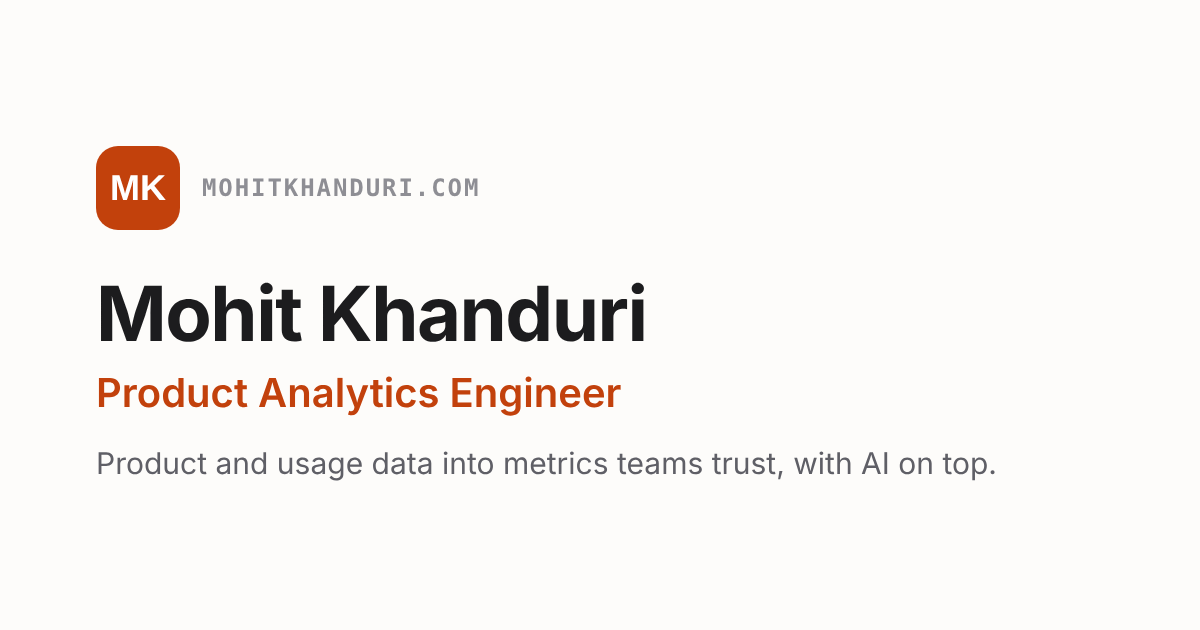
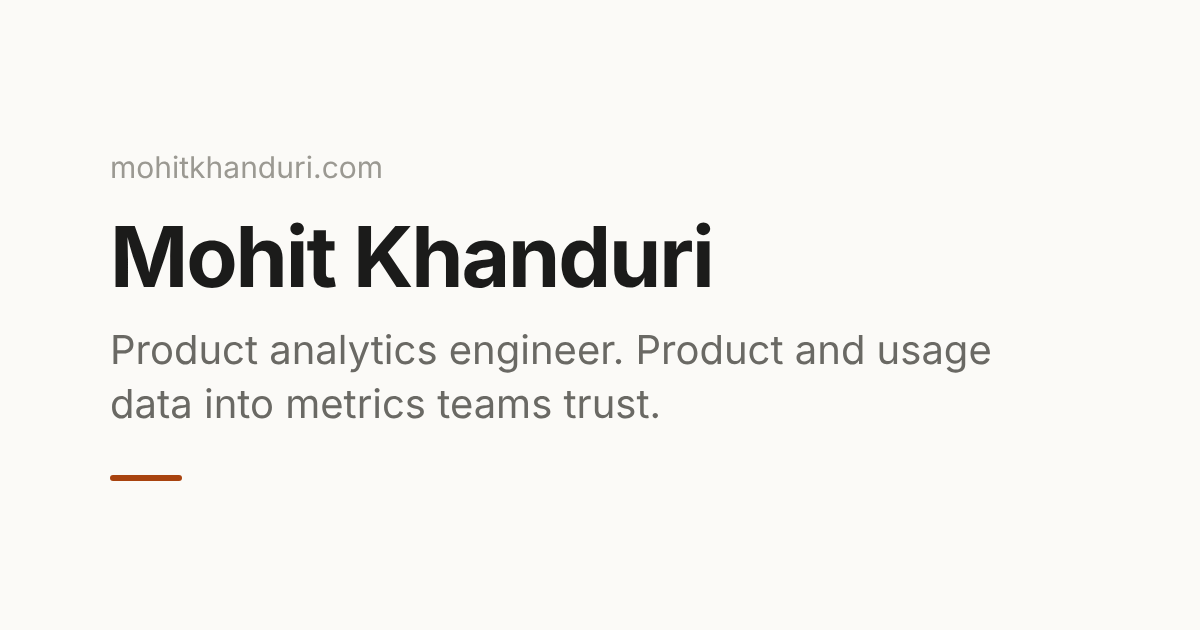
Redesign in a text-first, warm minimal style
Follow Lee Robinson's structure: a personal intro with links in the text,
then plain lists for work, how I work, side projects and Now. Drops the
card grids, buttons, badge and the separate About and Contact sections
(folded into the intro). Quieter warm palette, plain-name header,
lowercase nav, subtle hover arrows. Link-preview image and favicon
updated to match.

Claude-Session: https://claude.ai/code/session_01S2RkmCWnAzvbtV5CNQiwZp

Changed region(s): [[0.0617, 0.2111, 0.8325, 0.6635], [0.0617, 0.7238, 0.8325, 0.7841]]

diff --git a/src/styles/global.css b/src/styles/global.css
@@ -1,95 +1,88 @@
 :root {
-  --bg: #fdfcfa; --surface: #ffffff; --text: #1c1c1e; --muted: #5f5f66; --faint: #8e8e94;
-  --line: #ebe8e3; --accent: #c2410c; --accent-soft: #fff0e6; --row-hover: #f6f3ee;
-  --font: ui-sans-serif, system-ui, -apple-system, "Segoe UI", Roboto, sans-serif;
+  --bg: #fbfaf7; --text: #1b1b1a; --muted: #6a6964; --faint: #9b9992;
+  --line: #e7e4dd; --accent: #a8430f; --hover: #f3f0ea;
+  --font: ui-sans-serif, system-ui, -apple-system, "Segoe UI", Roboto, "Helvetica Neue", sans-serif;
   --mono: ui-monospace, SFMono-Regular, Menlo, Consolas, monospace;
-  --maxw: 720px;
+  --maxw: 640px;
 }
 @media (prefers-color-scheme: dark) {
   :root {
-    --bg: #111113; --surface: #18181b; --text: #ececee; --muted: #a3a3a8; --faint: #7c7c82;
-    --line: #26262a; --accent: #ff8a4c; --accent-soft: #2a1a10; --row-hover: #1c1c20;
+    --bg: #121211; --text: #ecebe7; --muted: #a09e97; --faint: #74726c;
+    --line: #2a2926; --accent: #f0a074; --hover: #1b1a18;
   }
 }
 * { box-sizing: border-box; }
 html { -webkit-text-size-adjust: 100%; }
-body { margin: 0; background: var(--bg); color: var(--text); font: 16px/1.65 var(--font); }
+body { margin: 0; background: var(--bg); color: var(--text); font: 16px/1.7 var(--font);
+       -webkit-font-smoothing: antialiased; text-rendering: optimizeLegibility; }
 a { color: inherit; text-decoration: underline; text-decoration-color: var(--line);
-    text-decoration-thickness: 2px; text-underline-offset: 3px; transition: text-decoration-color .15s; }
+    text-decoration-thickness: 1.5px; text-underline-offset: 3px; transition: text-decoration-color .15s, color .15s; }
 a:hover { text-decoration-color: var(--accent); }
+::selection { background: var(--accent); color: var(--bg); }
 img, svg { max-width: 100%; }
 
 .wrap { max-width: var(--maxw); margin: 0 auto; padding: 0 16px; }
 
 /* Header and footer */
-.site-header { border-bottom: 1px solid var(--line); }
-.site-header .wrap { display: flex; align-items: center; justify-content: space-between; gap: 12px; padding-top: 14px; padding-bottom: 14px; flex-wrap: wrap; }
-.brand { font-weight: 650; text-decoration: none; display: flex; align-items: center; gap: 10px; }
-.brand .mark { width: 28px; height: 28px; border-radius: 8px; background: var(--accent); color: #fff; display: grid; place-items: center; font: 700 12px/1 var(--font); }
-nav { display: flex; gap: 4px 16px; flex-wrap: wrap; font-size: 15px; }
+.site-header .wrap { display: flex; align-items: baseline; justify-content: space-between; gap: 12px;
+                     padding-top: 40px; padding-bottom: 8px; flex-wrap: wrap; }
+.brand { font-weight: 600; text-decoration: none; letter-spacing: -.01em; }
+nav { display: flex; gap: 4px 18px; flex-wrap: wrap; font-size: 15px; }
 nav a { text-decoration: none; color: var(--muted); }
 nav a:hover, nav a[aria-current="page"] { color: var(--text); }
-.site-footer { margin-top: 72px; border-top: 1px solid var(--line); color: var(--faint); font-size: 14px; }
-.site-footer .wrap { padding-top: 20px; padding-bottom: 40px; display: flex; justify-content: space-between; gap: 12px; flex-wrap: wrap; }
+.site-footer { margin-top: 96px; color: var(--faint); font-size: 14px; }
+.site-footer .wrap { padding-top: 20px; padding-bottom: 48px; border-top: 1px solid var(--line);
+                     display: flex; justify-content: space-between; gap: 12px; flex-wrap: wrap; }
+.site-footer a { color: var(--muted); }
 
 /* Type */
-h1 { font-size: clamp(30px, 5.5vw, 42px); line-height: 1.15; letter-spacing: -.02em; margin: 0 0 16px; }
-h2 { font-size: 22px; line-height: 1.3; letter-spacing: -.01em; margin: 0 0 6px; }
-h3 { font-size: 17px; line-height: 1.35; margin: 0 0 4px; }
-p { margin: 0 0 14px; }
-.eyebrow { font: 600 12px/1 var(--mono); letter-spacing: .1em; text-transform: uppercase; color: var(--faint); margin: 0 0 12px; }
+h1 { font-size: 28px; line-height: 1.25; letter-spacing: -.02em; font-weight: 650; margin: 0 0 18px; }
+h2 { font-size: 15px; line-height: 1.4; font-weight: 600; margin: 0 0 14px; }
+h3 { font-size: 16px; line-height: 1.45; font-weight: 600; margin: 0; }
+p { margin: 0 0 16px; }
+.eyebrow { font-size: 14px; color: var(--faint); margin: 0 0 8px; }
 .muted { color: var(--muted); }
-.lede { font-size: 18px; color: var(--muted); }
+.lede { color: var(--muted); }
 
-section { padding-top: 56px; }
-.section-head { display: flex; align-items: baseline; justify-content: space-between; gap: 12px; margin-bottom: 18px; flex-wrap: wrap; }
-.section-head a { font-size: 15px; color: var(--muted); }
+main > section, article > section { padding-top: 56px; }
+main > section:first-child { padding-top: 64px; }
 
-/* Buttons */
-.buttons { display: flex; flex-wrap: wrap; gap: 10px; margin-top: 24px; }
-.btn { display: inline-block; padding: 9px 16px; border-radius: 999px; border: 1px solid var(--line); background: var(--surface); text-decoration: none; font-size: 15px; font-weight: 550; }
-.btn:hover { border-color: var(--accent); color: var(--accent); }
-.btn.primary { background: var(--accent); border-color: var(--accent); color: #fff; }
-.btn.primary:hover { color: #fff; filter: brightness(1.08); }
+/* Lists of links: title and one line, subtle hover */
+.list { list-style: none; padding: 0; margin: 0 -12px; }
+.list a { display: block; padding: 10px 12px; border-radius: 8px; text-decoration: none; transition: background .15s; }
+.list a:hover { background: var(--hover); }
+.list .t { font-weight: 550; display: flex; align-items: baseline; gap: 8px; }
+.list .t::after { content: "→"; color: var(--faint); font-weight: 400; opacity: 0; transform: translateX(-4px);
+                  transition: opacity .15s, transform .15s; }
+.list a:hover .t::after { opacity: 1; transform: none; }
+.list .d { color: var(--muted); font-size: 15px; }
+.list .m { color: var(--faint); font-size: 13px; }
 
-/* Cards */
-.grid { display: grid; gap: 14px; grid-template-columns: repeat(auto-fit, minmax(210px, 1fr)); }
-.card { background: var(--surface); border: 1px solid var(--line); border-radius: 12px; padding: 18px 20px; }
-.card p { color: var(--muted); font-size: 15px; margin: 0; }
-a.card { display: block; text-decoration: none; transition: border-color .15s; }
-a.card:hover { border-color: var(--accent); }
-a.card:hover h3 { color: var(--accent); }
-.card .num { font: 600 12px/1 var(--mono); color: var(--accent); margin-bottom: 10px; }
-
-.tag { display: inline-block; font: 600 11px/1 var(--mono); letter-spacing: .04em; text-transform: uppercase; color: var(--accent); background: var(--accent-soft); padding: 5px 7px; border-radius: 5px; margin-bottom: 10px; }
-.chips { display: flex; flex-wrap: wrap; gap: 6px; padding: 0; margin: 12px 0 0; list-style: none; }
-.chips li { font: 12px/1 var(--mono); border: 1px solid var(--line); padding: 5px 7px; border-radius: 6px; color: var(--muted); }
-
-/* Lists of rows */
+/* Plain rows (CV, principles, Now) */
 .rows { list-style: none; padding: 0; margin: 0; }
 .rows li { padding: 14px 0; border-top: 1px solid var(--line); }
 .rows li:first-child { border-top: 0; padding-top: 0; }
 .rows .meta { font: 12px/1.6 var(--mono); color: var(--faint); }
+.bullets { padding-left: 18px; margin: 0; }
+.bullets li { margin: 4px 0; color: var(--muted); }
 
-.callout { border: 1px dashed var(--accent); background: var(--accent-soft); border-radius: 12px; padding: 18px 20px; }
-.callout p { margin: 0; }
+.chips { display: flex; flex-wrap: wrap; gap: 6px; padding: 0; margin: 12px 0 0; list-style: none; }
+.chips li { font: 12px/1 var(--mono); border: 1px solid var(--line); padding: 5px 7px; border-radius: 6px; color: var(--muted); }
 
-.avatar { width: 72px; height: 72px; border-radius: 18px; background: var(--accent); color: #fff; display: grid; place-items: center; font: 700 26px/1 var(--font); flex: none; }
-.about { display: flex; gap: 20px; align-items: flex-start; }
-
-dl.pairs { display: grid; grid-template-columns: 190px 1fr; gap: 10px 16px; margin: 0; }
+dl.pairs { display: grid; grid-template-columns: 180px 1fr; gap: 10px 16px; margin: 0; }
 dl.pairs dt { color: var(--faint); }
 dl.pairs dd { margin: 0; }
 
 /* Long-form pages */
-.prose h2 { margin-top: 40px; }
+.prose h1 { font-size: 30px; }
+.prose h2 { font-size: 20px; letter-spacing: -.01em; margin: 44px 0 8px; }
 .prose ul { padding-left: 20px; }
 .prose li { margin: 6px 0; }
 .prose ul.chips, .prose ul.rows { padding-left: 0; }
 .prose ul.chips li { margin: 0; }
 
 @media (max-width: 560px) {
-  .about { flex-direction: column; }
+  .site-header .wrap { padding-top: 28px; }
   dl.pairs { grid-template-columns: 1fr; gap: 2px; }
   dl.pairs dd { margin-bottom: 12px; }
 }

diff --git a/src/data/site.ts b/src/data/site.ts
@@ -15,21 +15,6 @@ export const site = {
   github: 'https://github.com/mandakani',
 };
 
-export const whatIDo = [
-  {
-    title: 'Model product data',
-    body: 'I turn app events, users and accounts into clean dbt models, so teams can see activation, retention and feature usage without writing SQL.',
-  },
-  {
-    title: 'Make metrics trustworthy',
-    body: 'One agreed definition per metric, tests on every model, data quality rules and access control, so every team sees the same numbers.',
-  },
-  {
-    title: 'Exploring: AI on top of data',
-    body: 'LLM agents that go through the same access checks as any other user of the data, with every run traced. See the lab below.',
-  },
-];
-
 // Each principle points at work where it was applied, so none of it is theory.
 export const principles = [
   {
@@ -100,14 +85,12 @@ export const caseStudies = [
 export const lab = [
   {
     title: 'AI research advisor',
-    tag: 'AI lab',
     body: 'A LangGraph agent that asks clarifying questions, researches the web and recommends with sources. Every run is traced in Opik.',
     href: 'https://github.com/mandakani/ai-projects-sdd',
     stack: ['LangGraph', 'FastAPI', 'React', 'Opik'],
   },
   {
     title: 'Governed data agent',
-    tag: 'AI lab',
     body: 'An LLM agent over a medallion pipeline that goes through the same consent checks, data masking and filtered retrieval as any other caller.',
     href: 'https://github.com/mandakani/healthcare-data-agent-poc',
     stack: ['DuckDB', 'Python', 'litellm'],
@@ -118,9 +101,6 @@ export const now = [
   'Learning PostHog event tracking, funnel and retention metrics, and A/B test analysis',
   'Exploring text-to-SQL over a metrics layer, and how to evaluate it',
 ];
-
-export const about =
-  "I started in enterprise IT as a business analyst, moved into software and have spent the last seven years in data modelling and analytics engineering. The part I enjoy most is the moment a product team agrees on what a metric means and starts using it to decide. I've built analytics platforms at a SaaS startup, an industrial energy company and across a group of businesses. Now I'm focused on product analytics for SaaS companies serving small businesses, and I'm learning how AI can make that data easier to use.";
 
 export const timeline = [
   { years: '2025–2026', role: 'Senior Consultant, Data', org: 'Preferred Square Analytics',
